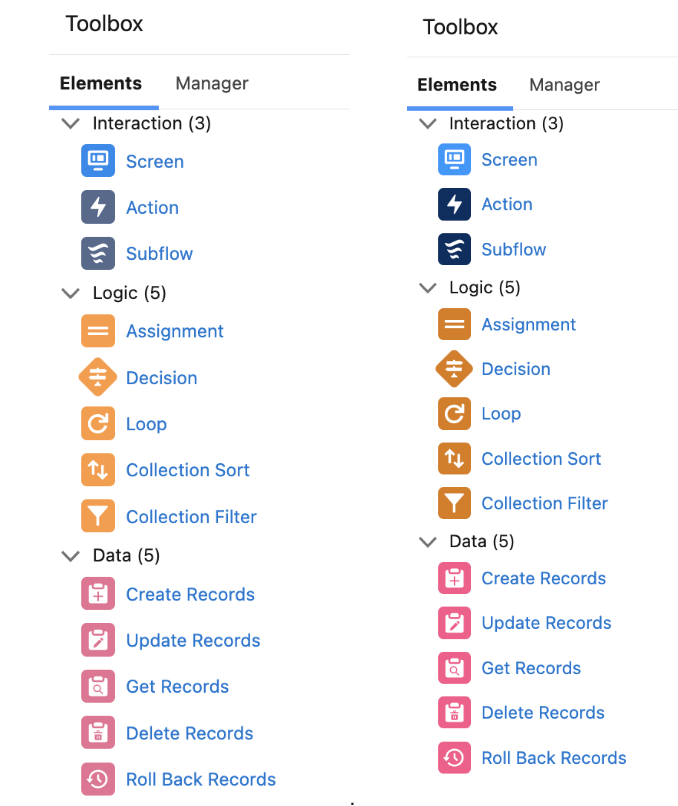
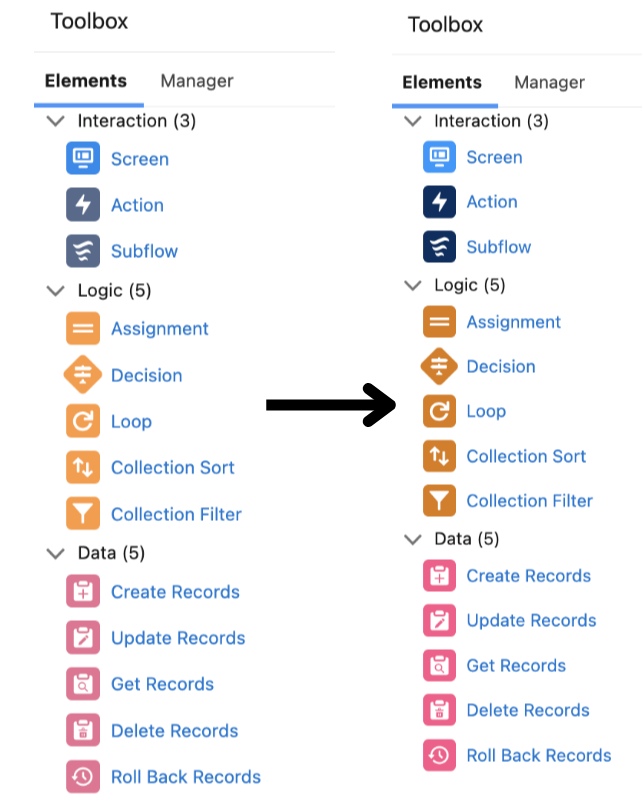
initial changes completed

diff --git a/public/pages/salesforce-canvas-enhancements.html b/public/pages/salesforce-canvas-enhancements.html
@@ -19,7 +19,7 @@
 
 <body>
 
-  <nav class="navbar sticky-top navbar-expand-lg navbar-light bg-light" id="navbar-real">
+  <nav class="navbar sticky-top navbar-expand-lg navbar-light bg-light row" id="navbar-real">
     <a class="navbar-brand" href="/#">BEVERLY YIP</a>
     <button class="navbar-toggler collapsed" type="button" data-toggle="collapse" data-target="#navbarSupportedContent" aria-controls="navbarSupportedContent" aria-expanded="false" aria-label="Toggle navigation" id="nav-gen">
       <span class="navbar-toggler-icon"></span>
@@ -51,7 +51,7 @@
 
 
   <header>
-    <div class="container-fluid landing filter-overlay">
+    <div class="container-fluid landing filter-overlay row">
       <div class="landing-name">
         <h1>Flow Builder Canvas Enhancements</h1>
       </div>
@@ -76,7 +76,7 @@
         <h2>Introduction</h2>
       </br>
         <p>Flow Builder provides declarative process automation for every Salesforce app, experience, and portal with point-and-click automation. I joined this team in April 2022 and have since been working on releasing changes that aim to consistently improve user productivity and experience.</p>
-        <p class="highlight">The primary goal of this Flow Builder's redesign was to offer users a <span>modernized and simplified layout that remains inclusive to all</span>. This involves a cleaner and more visually appealing interface with improved navigation, as well as improving user experience for those that are sight-impaired with colors that meet the WCAG 2.1 requirements. </p>
+        <p class="highlight">The primary goal of this Flow Builder's redesign was to offer users a <span>modernized and simplified layout that remains inclusive to all</span>. This involves a cleaner and more visually appealing interface with improved navigation, as well as improving user experience for those that are sight-impaired with colors that meet accessibility requirements. </p>
         <p>The modifications were implemented in Java, Typescript, HTML, and CSS.
         </p>
 
@@ -118,8 +118,8 @@
         </br>
         <p>As a Software Engineer in Salesforce, my responsibilities start when I receive feature deliverables by the User Experience team.</p>
         <div class="deliverables-img">
-          <img class="center" src="/img/canvas-enhancements-img/deliverables-1.png" alt="ux deliverables">
-          <img class="center" src="/img/canvas-enhancements-img/deliverables-2.png" alt="ux deliverables">
+          <img src="/img/canvas-enhancements-img/deliverables-1.png" alt="ux deliverables">
+          <img src="/img/canvas-enhancements-img/deliverables-2.png" alt="ux deliverables">
         </div>
         <p class="highlight">I began by conducting a spike, <span>a time-boxed research into the codebase to explore potential solutions and identify technical challenges</span>. This research would conclude with a detailed presentation of my findings and a demo of proof-of-concepts to my team.</p>
         <img class="center spike-example" src="/img/canvas-enhancements-img/spike-eg.jpg" alt="spike example">
@@ -131,33 +131,88 @@
         <p>The first noticeable enhancement was changing the icon to a <img class="circle-icon" src="/img/canvas-enhancements-img/circle-icon.png" alt="circle icon"> icon that enlarges to the <img class="plus-icon" src="/img/canvas-enhancements-img/plus-icon.png" alt="plus icon"> icon when interacted with.</p>
         <img class="hover-animation" src="/img/canvas-enhancements-img/hover-animation.gif" alt="icon hover animation gif">
         <p class="highlight">With this update, there were <span>four animation cases</span> to consider.</p>
-        <img class="center icon-cases" src="/img/canvas-enhancements-img/icon-animation-cases.png" alt="icon cases">
+        <div class="row">
+          <img class="icon-cases" src="/img/canvas-enhancements-img/icon-animation-cases.png" alt="icon cases">
+        </div>
       </div>
 
       <div class="add-help-popover-story">
         <h2>Add Help Popover</h2>
         </br>
         <p>With the significant visual update, we wanted to provide users a help popover that explains how one can interact with the new interface.</p>
-          <img class="center popover-example" src="/img/canvas-enhancements-img/popover-eg.png" alt="popover example">
-          <img class="center popover-req" src="/img/canvas-enhancements-img/popover-requirements.png" alt="popover requirements">
-          <img class="center popover-issue" src="/img/canvas-enhancements-img/popover-issue.png" alt="popover issue">
+        <div class="row">
+          <img class="popover-example" src="/img/canvas-enhancements-img/popover-eg.png" alt="popover example">
+          <img class="popover-req" src="/img/canvas-enhancements-img/popover-requirements.png" alt="popover requirements">
+          <img class="popover-issue" src="/img/canvas-enhancements-img/popover-issue.png" alt="popover issue">
+        </div>
       </div>
 
       <div class="shorten-distance-story">
         <h2>Shorten The Distance Between Vertical Nodes</h2>
         </br>
         <p class="highlight">This feature involved a simple change in variable value in a file that calculated all element configurations. After spiking this feature, I found <span>two methods of implementation</span> that my team and I could discuss and finalize on.</p>
-        <img class="center shorten-dist-spike-example" src="/img/canvas-enhancements-img/shorten-dist-spike.png" alt="shorten distance spike example">
-        <img class="center shorten-dist-issue" src="/img/canvas-enhancements-img/shorten-dist-issue.png" alt="shorten distance issue">
+        <div class="row">
+          <img class="center shorten-dist-spike-example" src="/img/canvas-enhancements-img/shorten-dist-spike.png" alt="shorten distance spike example">
+          <img class="shorten-dist-issue" src="/img/canvas-enhancements-img/shorten-dist-issue.png" alt="shorten distance issue">
+        </div>
         <p>After multiple feedback sessions and multi-team discussions with UX and my team, an acceptable variable value was agreed upon that could meet both the feature requirement and accommodate unique cases like the Decision element.</p>
+        </br>
       </div>
 
       <div class="reduce-width-story">
         <h2>Reduce The Width Of Connectors</h2>
         </br>
         <p>Part of the move towards improving the canvas interface was reducing the overall width of the connectors. This also involved a small change in variable value.</p>
-        <img class="center reduce-width" src="/img/canvas-enhancements-img/reduce-width-img.png" alt="reduce width example">
+        <div class="row">
+          <img class="reduce-width" src="/img/canvas-enhancements-img/reduce-width-img.png" alt="reduce width example">
+        </div>
       </div>
+
+      <div class="color-contrast-story">
+        <h2>Increase The Contrast Of Nodes And Connectors</h2>
+        </br>
+        <p>Prior to this update, Flow Builder displayed colors that were not WCAG 2.1 compliant. After consulting with the UX team and obtaining the necessary css requirements, I began identifying the areas that required modifications.</p>
+        <div class="row">
+          <img class="color-contrast" src="/img/canvas-enhancements-img/color-contrast.png" alt="color contrast example">
+        </div>
+        <p>The code was straightforward, but its application demanded consideration of all node and connector variations. Thus, before embarking on the changes, I needed to thoroughly investigate the source code for these variants and all their possible use cases.</p>
+      </br>
+        <p class="highlight">This feature adjustment was particularly notable for me. Throughout my career, it was among the few tasks I undertook that highlighted a <span>distinct interface-driven customer need</span>. Addressing this would greatly enhance both productivity and inclusivity for its users.
+        </p>
+      </br>
+      </div>
+
+      <div class="results">
+        <h2>Drum Roll, Please... The Finished Product</h2>
+        </br>
+        <p>On the left, you'd see what Flow Builder was before the changes. On the right, you'd see how the Flow Builder canvas has improved after the changes.</p>
+        <div class="row">
+          <img class="end-product" src="/img/canvas-enhancements-img/end-product.gif" alt="end product gif">
+          <img class="canvas-enhancements-conclusion" src="/img/canvas-enhancements-img/canvas-enhancements-conclusion.jpg" alt="canvas enhancements conclusion">
+        </div>
+        <p class="highlight">The newly-upgraded canvas layout that boasts <span>a more compact view with improved accessibility standards</span> received praise during its Summer ‘23 release. While Salesforce product releases are commonly discussed in quarterly articles and blogs, this particular feature stood out. It captivated many users right from the get go and was subsequently highlighted as <span>one of the top features</span> of that Salesforce release.</p>
+        <div class="row">
+          <img class="canvas-reviews" src="/img/canvas-enhancements-img/canvas-reviews.png" alt="canvas reviews">
+        </div>
+      </div>
+
+      <div class="learning-journey">
+        <h2>Phew, What A Learning Journey!</h2>
+        </br>
+        <p>When I first took on the leadership role for this project, I grappled with self-doubt, often questioning my capabilities as the youngest Software Engineer on a seasoned team. My experience was marked by daily challenges, collaborative brainstorming and intensive problem-solving.</p>
+        </br>
+        <p class="highlight" style="padding-bottom: 20px">My manager and mentor played crucial roles in encouraging me to <span>stay curious</span>. I'll never forget the response I received to my apprehension about asking questions, which completely transformed my outlook on speaking up.</p>
+        </br>
+        <p class="quote">“You never know if someone also has the same question as you or if your question might offer a new perspective. By asking your question, you could be helping someone else too.”</p>
+        </br>
+        <p style="padding-top: 20px">Looking back at the successful impact of the feature on user productivity and accessibility, I'm deeply thankful for my team's unwavering support that fueled my confidence and determination to lead the project to its success.</p>
+      </br>
+      </div>
+
+      <div class="learning-journey">
+        <h2>Thanks for scrolling!</h2>
+        </br>
+        <p>If you're interested, check out <a class="content-link" href="/#">this other case study</a> I did on improving accessibility in Salesforce's Flow Builder Resource Menu.</p>
     </div>
 
 <div class="section contact" id="contact">

diff --git a/public/css/canvas-enhancements.css b/public/css/canvas-enhancements.css
@@ -248,14 +248,18 @@ ul li {
 }
 
 .solution h2, .solution p {
-  padding: 0 40px;
+  padding: 0 60px;
   margin: 0;
 }
 
+.update-icon-story h2,
 .add-help-popover-story h2,
 .shorten-distance-story h2,
-.reduce-width-story h2 {
-  padding: 40px 40px 0 40px;
+.reduce-width-story h2,
+.color-contrast-story h2,
+.results h2,
+.learning-journey h2 {
+  padding: 0 60px;
 }
 
 img {
@@ -270,18 +274,35 @@ img.hover-animation {
   padding: 40px 0;
 }
 
-img.spike-example, img.shorten-dist-spike-example {
+img.end-product {
+  width: 80%;
+  padding-top: 40px;
+}
+
+img.spike-example,
+img.shorten-dist-spike-example {
   width: 70%;
   padding-top: 40px;
 }
 
-img.icon-cases,
-img.popover-example,
-img.reduce-width {
+img.popover-example {
   padding-top: 40px;
 }
 
-img.shorten-dist-issue {
+img.icon-cases,
+img.reduce-width,
+img.color-contrast,
+img.canvas-enhancements-conclusion,
+img.canvas-reviews {
+  padding: 40px 0;
+}
+
+img.color-contrast {
+  width: 60%;
+}
+
+img.shorten-dist-issue,
+img.popover-issue {
   padding-bottom: 40px;
 }
 
@@ -296,6 +317,19 @@ img.circle-icon {
   display: inline;
   height: 20px;
   width: 12px;
+}
+
+.learning-journey .quote {
+  font-style: italic;
+  color: black;
+  padding: 0 40px;
+  margin: 0 120px;
+  border-left: 2px solid black;
+}
+
+a.content-link:hover, a.content-link:focus {
+  color: #3f2a14;
+  text-decoration: none !important;
 }
 
 .contact:before {
